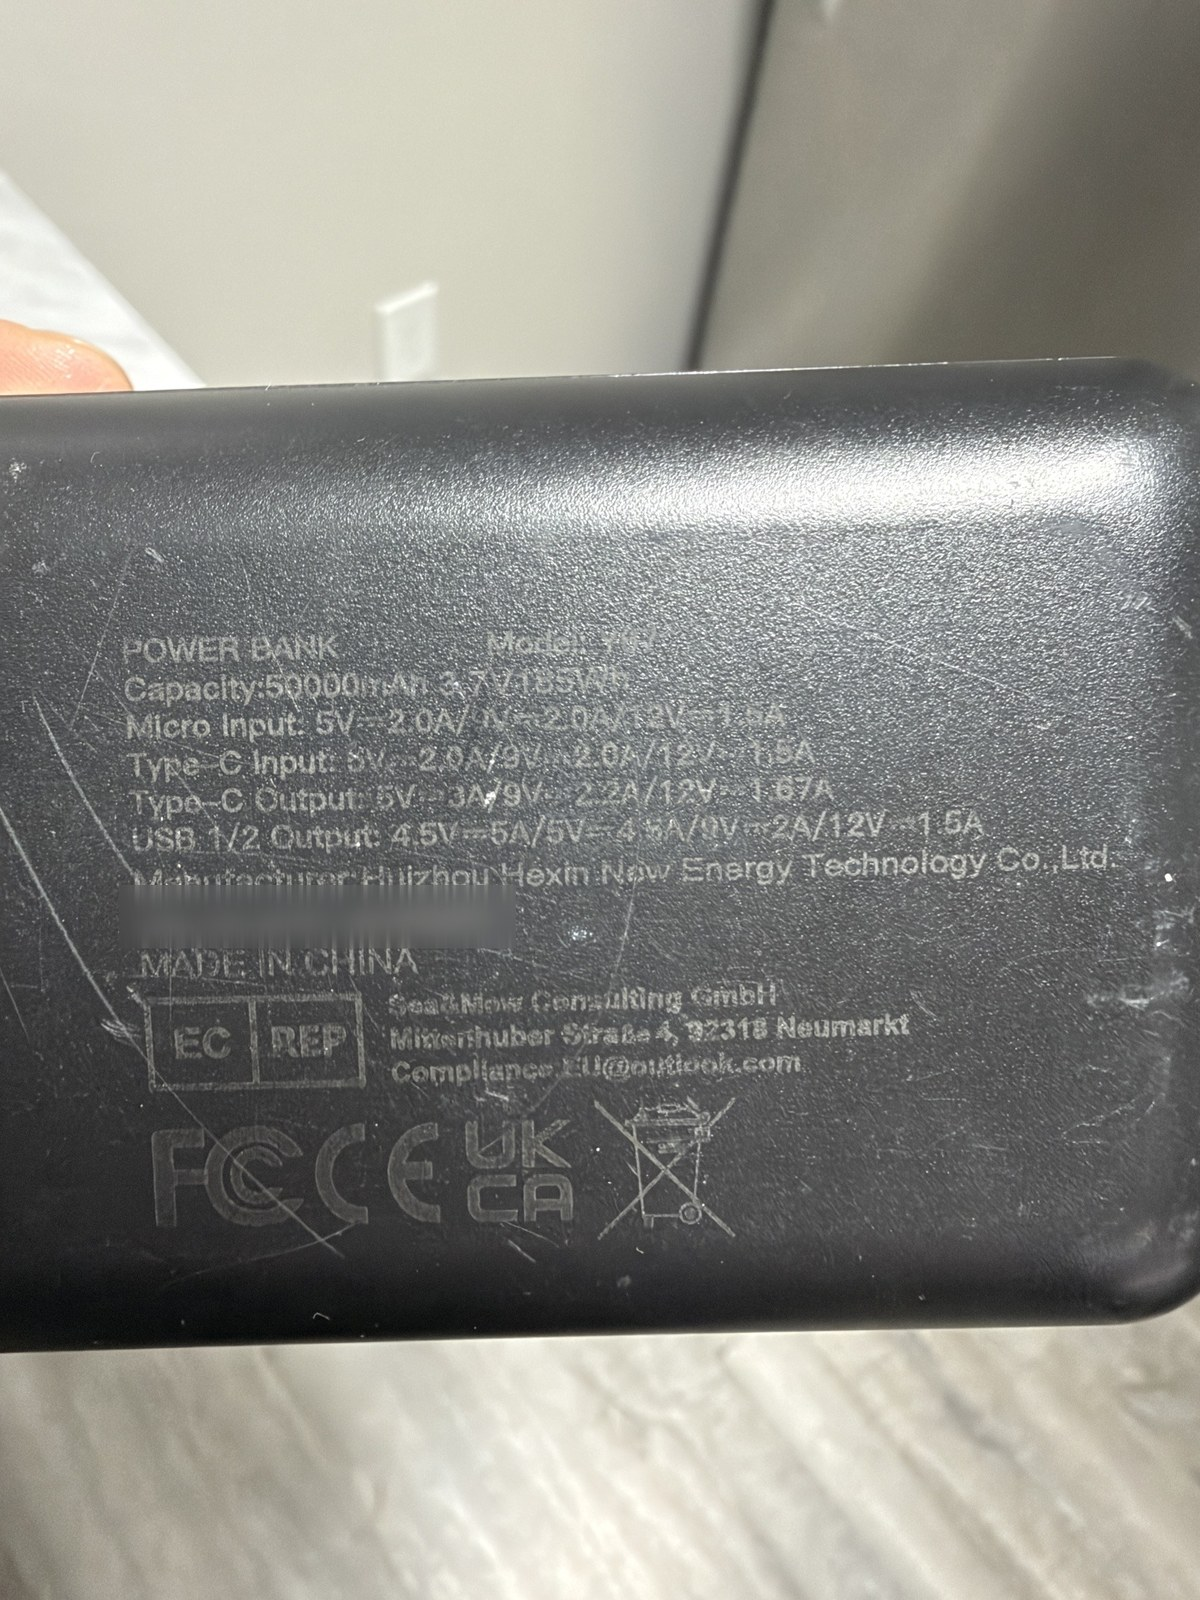
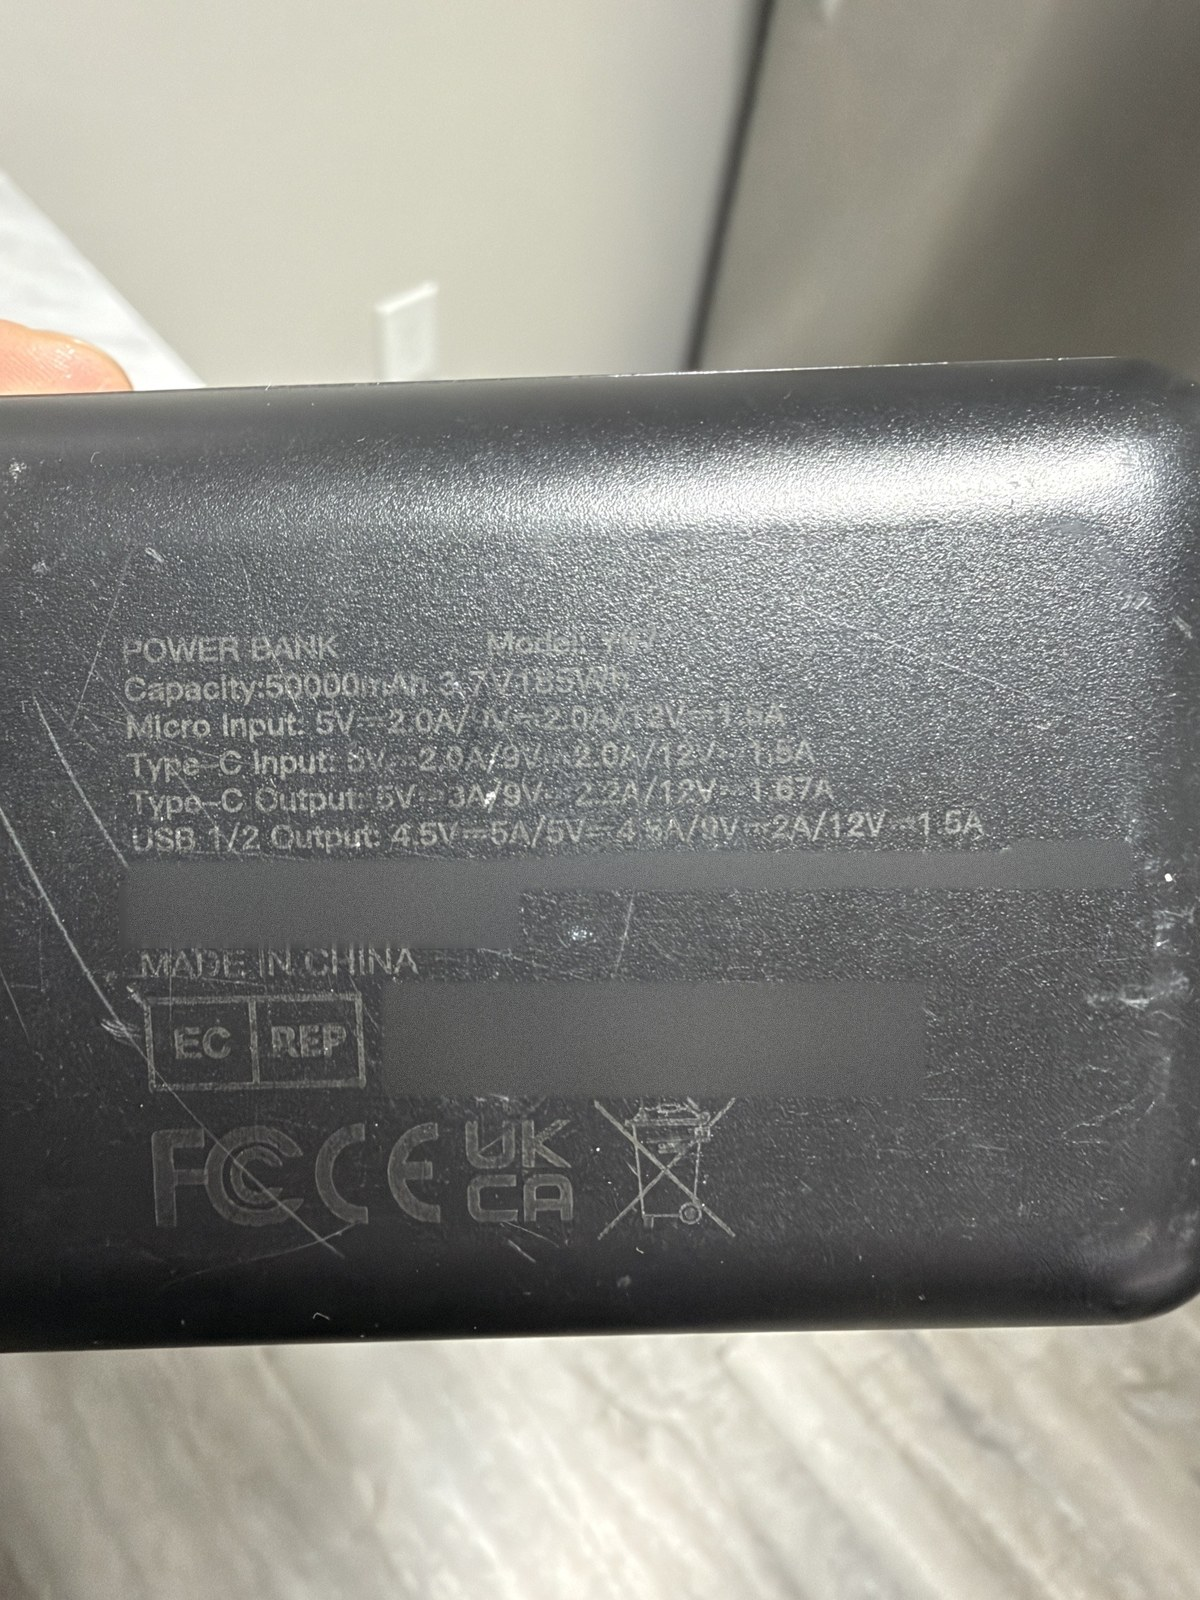
fix(eval): blur the maker, address and email lines on the power bank photo
The published own-01 photo printed a company name, a street address and an email address. Those lines are now blurred; the capacity, input and output lines and the marks keep their exact JPEG blocks. The new SHA-256 is in both eval manifests and the WebP hashes in src/judge/thumbs.json. The recorded runs and the offline-read evidence read the earlier copy, whose hash that evidence file keeps.

Verified: pixels more than 2 px outside the re-encoded blocks are identical; no letter reads at 4x; photo check passes on 40 photos; the other 78 small copies are unchanged; lint, typecheck, tests, build, tone, guard, hygiene.

Changed region(s): [[0.3083, 0.5938, 0.7708, 0.6875], [0.1233, 0.5312, 0.925, 0.5625]]

diff --git a/CHANGELOG.md b/CHANGELOG.md
@@ -6,6 +6,8 @@ All notable changes to this project are listed here.
 
 ### Added
 
+- The published power bank photo (`public/eval/items/own-01.jpg`) and its two small copies have the label's maker and EU representative lines blurred, so the company names, the street address and the email address no longer read; the capacity, input and output lines, "MADE IN CHINA", the EC REP mark and the safety marks are left as they were. `scripts/eval-privacy-blur.py` made the change, re-encoding only the 16 x 16 blocks under the blur. The new SHA-256 (`5f93eea6...92e8`, 424,876 bytes; before `50ddec66...1f44`, 431,630 bytes) is in `eval/set/manifest.json` and `eval/set/manifest.public.json`, the manifest's provenance names the change, and `src/judge/thumbs.json` has the new WebP hashes. The recorded eval runs and the on-device evidence read the earlier copy; `evidence/offline-read/2026-11-21T22-08-56Z.json` keeps that copy's hash as the record of what it read. Source: review (a frame review of the film). Verified: decoded pixels more than 2 px outside the re-encoded blocks are identical to the earlier copy (0 differ, the capacity line included), and in that 2 px edge 60 pixels move by at most 2 levels from the decoder's color smoothing; at 4x zoom no letter of the blurred lines reads, and OCR found "Neumar" and ".com" before and none after; a second run of the script stops without changing the file; `scripts/photo-check.ts` passes on all 40 photos; the other 78 small copies came out byte for byte the same; lint, typecheck, the full test suite, build, tone, guard, hygiene.
+
 - `scripts/eval-privacy-blur.py` blurs the lines of the published power bank photo that print a company name, a street address and an email address. It fills each line with a heavy blur plus grain, re-encodes only the 16 x 16 blocks under it with the photo's own quantization tables and 4:2:0 sampling, and puts them back with `jpegtran -drop`, so every other block keeps its exact data; `-copy none` keeps Exif, XMP and comments out. It runs once: it stops, changing nothing, unless the photo is still the copy the recorded runs read. Source: review (a frame review of the film). Verified: a second run on the blurred photo exits 1 and leaves the file as it was; the result is in the entry above.
 
 - The iPhone lines in README.md, docs/LIMITS.md and docs/TEST-MATRIX.md say what the evidence and the code support: from 2026-12-12 nothing on build 2 reads "OK to pack", but an item that must come out still reads "Take it out" (the stale-layer check adds a "Check this" and the higher verdict wins); in the airplane-mode run the model reported reading the label in 7 of the 22 photos and seeing only the item in 15; build 2 uses revision 6 once the pinned edition has loaded and its hash matches, and otherwise keeps revision 4; and an iPhone backup can keep a copy of the box. Source: review (a second-model check of the claims). Verified: against src/engine/verdict.ts at 31fd8c5, the evidence file's table, ios/BYT/Data/EditionSource.swift at 31fd8c5 and ios/app-store/app-privacy.md; lint, typecheck, the full test suite, build, tone, guard, hygiene.
